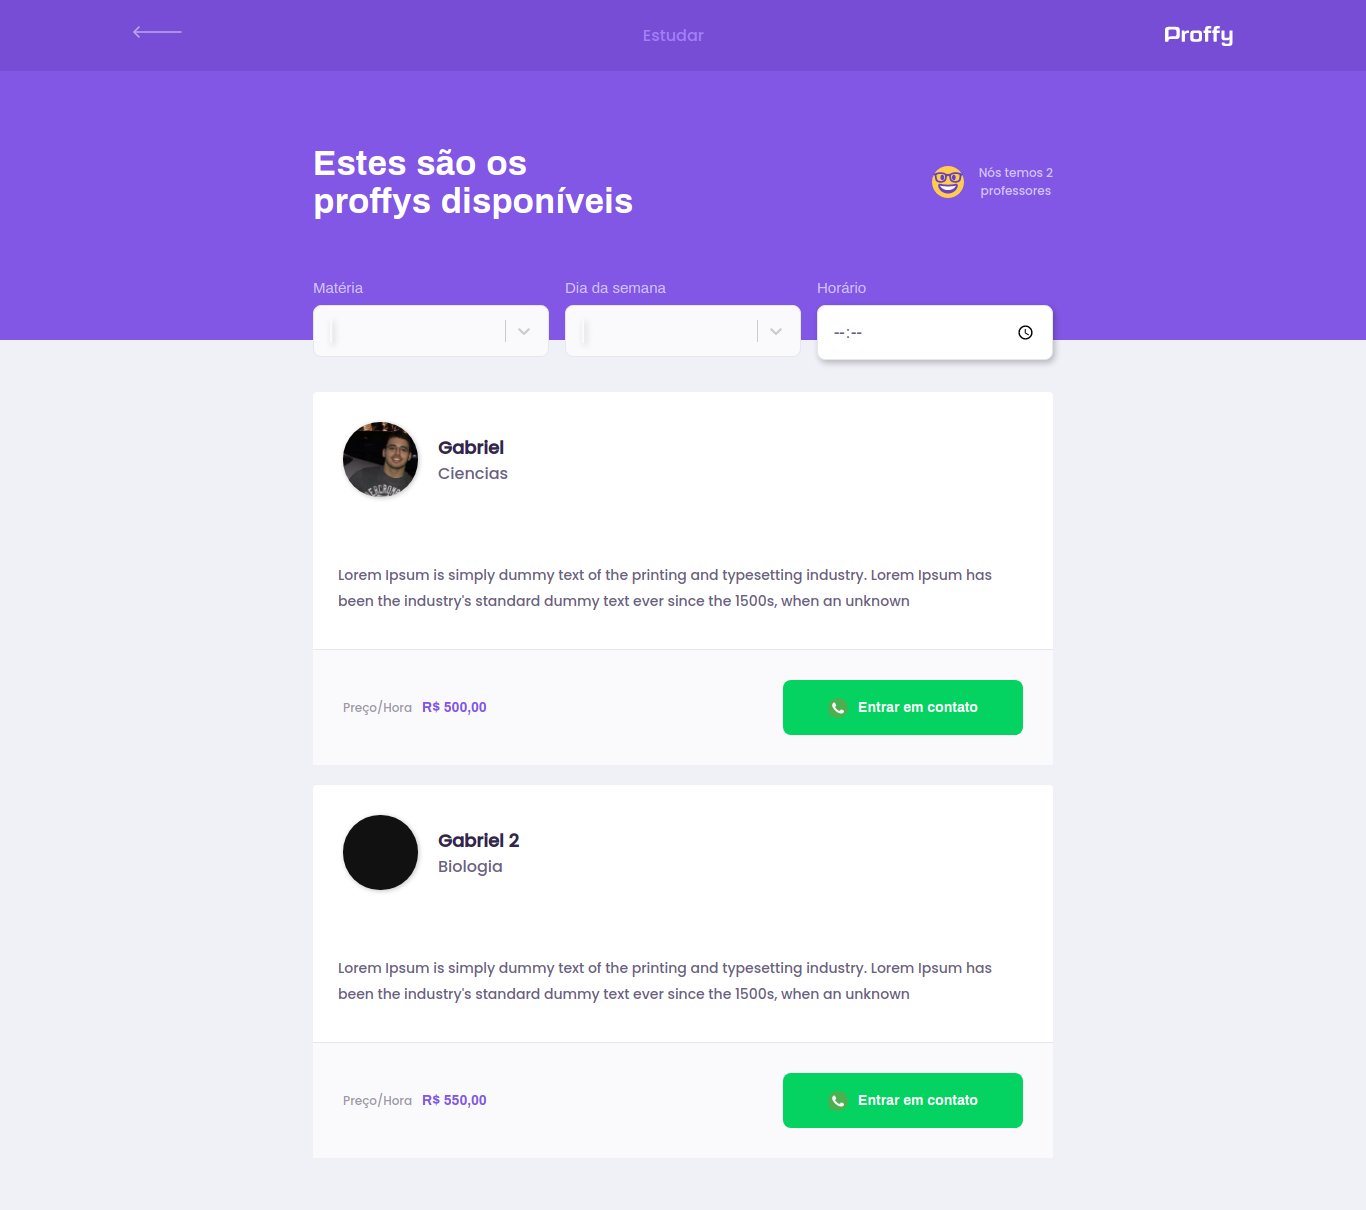
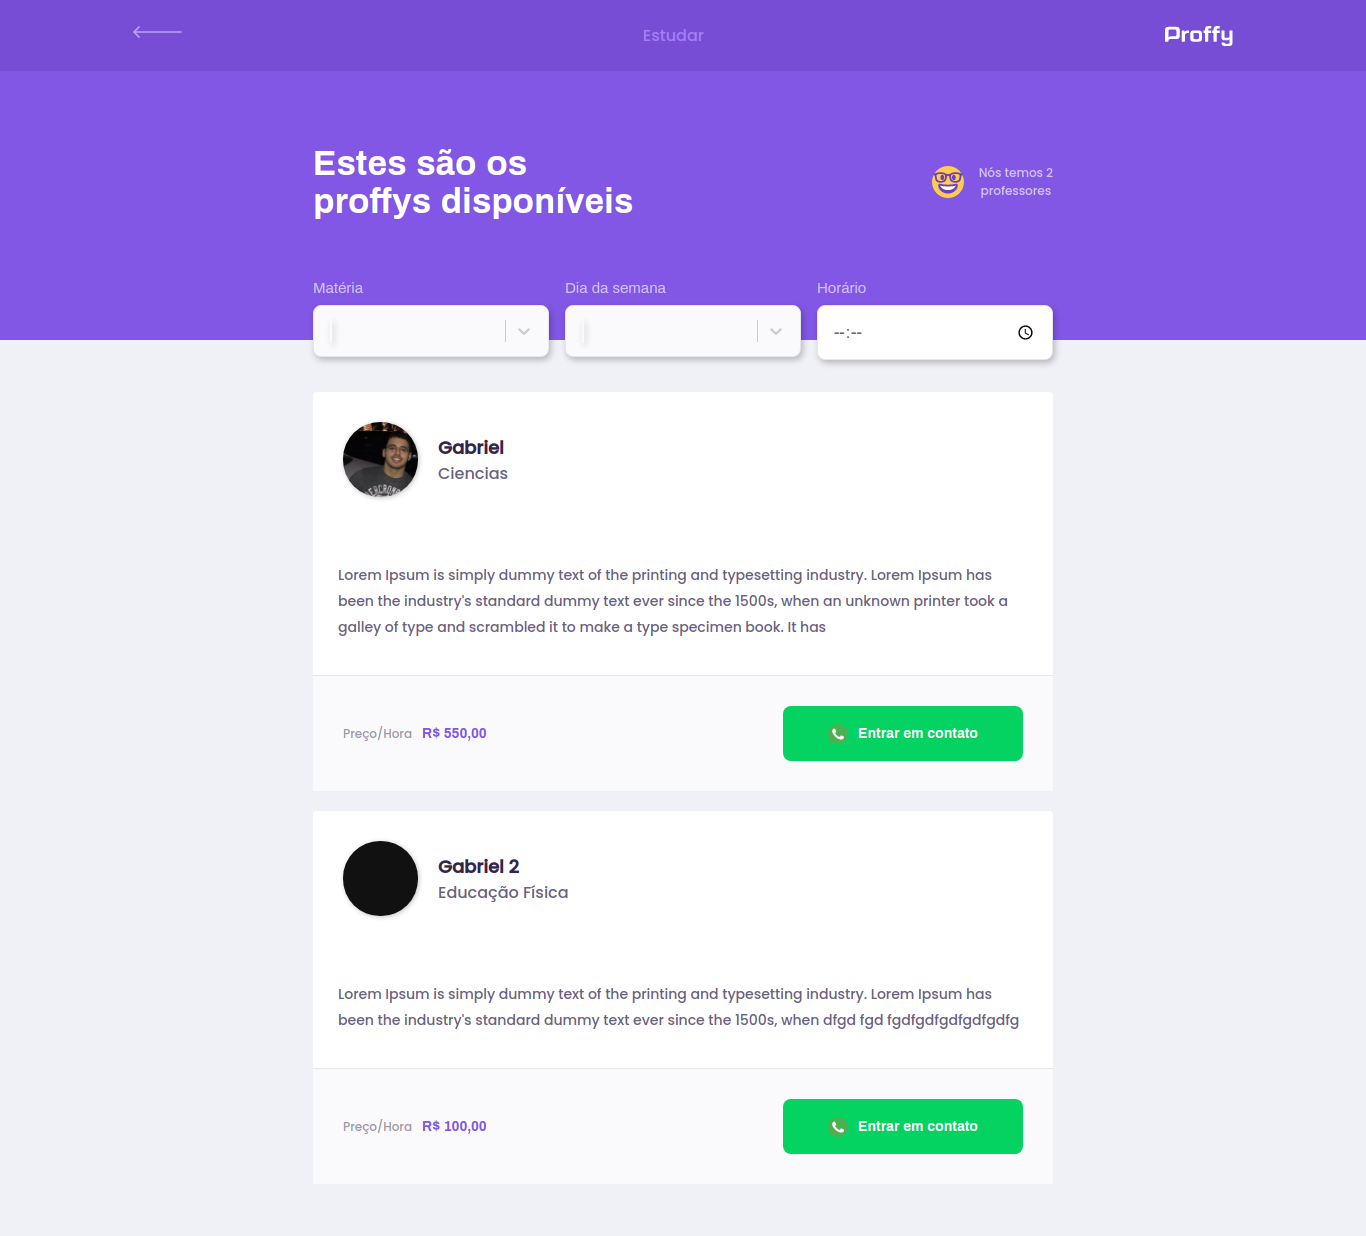
Sombra no select e ajuste no readme

diff --git a/web/src/pages/TeacherList/styles.ts b/web/src/pages/TeacherList/styles.ts
@@ -18,8 +18,8 @@ export const Container = styled.div.attrs({ className: "container" })`
         & div + div {
           margin-top: 0px;
         }
-        input {
-          box-shadow: 2px 3px 6px 0 rgba(0, 0, 0, 0.24);
+        input,.select__control{
+          box-shadow: 2px 3px 6px 0 rgba(0, 0, 0, 0.24) !important;
         }
       }
       main {

diff --git a/README.md b/README.md
@@ -1,1 +1,77 @@
-# Proffy
+
+![capa](https://github.com/Gabriel-Monteiro7/Proffy/blob/master/.github/capa.jpg)
+
+
+# [](<[https://github.com/Gabriel-Monteiro7/Proffy](https://github.com/Gabriel-Monteiro7/Proffy)>)    :books:Proffy / Next Level Week 2.0
+
+## [](<[https://github.com/Gabriel-Monteiro7/Proffy](https://github.com/Gabriel-Monteiro7/Proffy)#Visualização>)Visualização
+
+### Prévia
+![preview](https://github.com/Gabriel-Monteiro7/Proffy/blob/master/.github/preview.gif)
+
+---
+
+### Home
+![Home](https://github.com/Gabriel-Monteiro7/Proffy/blob/master/.github/home.png)
+
+---
+
+### Sucesso
+![SearchPoints](https://github.com/Gabriel-Monteiro7/Proffy/blob/master/.github/success.png)
+
+---
+
+### Lista de professores
+![enter image description here](https://github.com/Gabriel-Monteiro7/Proffy/blob/master/.github/teacherList.png)
+
+---
+
+### Cadastro de professores
+![enter image description here](https://github.com/Gabriel-Monteiro7/Proffy/blob/master/.github/teacherForm.png)
+
+---
+
+## [](<[https://github.com/Gabriel-Monteiro7/Proffy](https://github.com/Gabriel-Monteiro7/Proffy)#tecnologias>)Tecnologias utilizadas
+
+Para o desenvolvimento do projeto foi utilizada as seguintes tecnologias:
+
+- :nail_care:  **Styled Components** — Tecnologia para componentizar estilização CSS no React através do Javascript
+- :atom_symbol:  **React Js(Ts)** — Livraria Javascript para construção de interfaces;
+- :atom_symbol: **Redux Saga** — Biblioteca que foca em fazer os efeitos colaterais em aplicações serem mais fáceis e simples de se criar e manter;
+- :atom_symbol:  **React Toastify** — Permite adicionar notificações ao seu aplicativo com facilidade.
+- :atom_symbol:  **React Router Dom** — Roteamento e navegação para aplicações  que utilizam React Js
+-   :lock:  **Yup** — É um construtor de esquema JavaScript para análise e validação de valor.
+
+## [](<[https://github.com/Gabriel-Monteiro7/Proffy](https://github.com/Gabriel-Monteiro7/Proffy)#projeto>)Projeto
+
+O Proffy é uma plataforma de estudos on-line, com intuito de conectar alunos e professores com o objetivo de ter aulas on-line.
+
+## Instalação
+
+```
+# Clone o repositório
+	git clone git@github.com:Gabriel-Monteiro7/Proffy.git
+
+# Vá para o diretório principal
+	cd Proffy
+```
+```
+# Vá para o diretório FrontEnd
+	cd web
+
+# Instale as dependências
+	yarn install
+
+# Inicie o servidor do frontEnd
+	yarn start
+
+# Roda na porta 3000
+```
+
+## Comentários
+
+O sistema foi desenvolvido com o intuito de melhorar o entendimento das biblioteca React Js. Usando Hooks, Redux, Styled Components e diversas outras tecnologias para construir sua estrutura. Este é um projeto pessoal realizado na Semana Next Level Week 2, logo pode-se ter alguns erros.
+
+## [](<[https://github.com/Gabriel-Monteiro7/Proffy](https://github.com/Gabriel-Monteiro7/Proffy)#autor>):man_technologist: Autor
+
+- **Gabriel Monteiro** - [GitHub](https://github.com/Gabriel-Monteiro7) - Email: [gabrielmont713@gmail.com](mailto:gabrielmont713@gmail.com)
